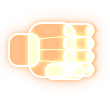
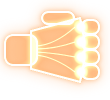
무투가 궁극기: 세 번 모두 주먹, 손등 쪽 주먹 그림, 플레이어 쪽에서 앞으로 날아감
- 주먹 그림을 손등 쪽에서 본 모양으로 (손목·손등·힘줄·주먹 마디 4개·접힌 손가락·엄지), 평타·스킬 1도 같은 그림
- 궁극기 세 번 모두 같은 주먹·같은 폭(220): 피해 20/20/30, 마지막만 강한 밀치기는 그대로
- 타격 시 범위 폭만 한 주먹이 플레이어 쪽에서 범위 끝까지 날아감(잔상 3개), 조준 중엔 출발 자리에 옅은 주먹
- 안 쓰는 발차기 그림 삭제

Claude-Session: https://claude.ai/code/session_014LK3LCMRfeXrTGqs4qkV62

diff --git a/web/js/characters/fighter.js b/web/js/characters/fighter.js
@@ -10,13 +10,11 @@ const fighterRgba = (a) => `rgba(${FIGHTER_RGB[0]},${FIGHTER_RGB[1]},${FIGHTER_R
 // 기(氣) 주먹 그림 (tools/fighter_fist_gen.js로 생성, 110x100, 주먹 마디가 오른쪽, 가운데 x 60 y 50, 색이 들어 있음)
 const FIGHTER_FIST_IMAGE = loadImage('assets/fighter_fist.png');
 
-// 발차기 그림 (110x100, 다리가 왼쪽·발바닥이 오른쪽)
-const FIGHTER_KICK_IMAGE = loadImage('assets/fighter_kick.png');
 // 그림 속 내용이 있는 영역 (빛 번짐 여백 조금 포함) — 범위를 꽉 채울 때 이 영역을 늘려 그린다
-const FIGHTER_FIST_BOX = [5, 19, 94, 64], FIGHTER_KICK_BOX = [2, 6, 102, 88];
+const FIGHTER_FIST_BOX = [3, 10, 98, 74];
 
 // 그림을 시작점(x, y)에서 angle 방향으로 길이 length·폭 width인 사각형에 꽉 채워 그린다
-// reach(0~1): 앞으로 뻗은 정도 (앞쪽 끝은 고정, 뒤쪽이 따라온다), flip: 위아래 뒤집기(왼손)
+// reach(0~1): 앞으로 뻗은 정도 (앞쪽 끝은 고정, 뒤쪽이 따라온다), flip: 위아래 뒤집기
 function drawFighterFill(ctx, img, box, x, y, angle, length, width, alpha, { flip = false, reach = 1 } = {}) {
     if (!isImageReady(img) || alpha <= 0) return;
     const len = length * reach;
@@ -39,7 +37,7 @@ function drawFighterFist(ctx, x, y, angle, size, alpha) {
     ctx.rotate(angle);
     ctx.globalCompositeOperation = 'lighter';
     ctx.globalAlpha = Math.min(1, alpha);
-    ctx.drawImage(FIGHTER_FIST_IMAGE, -60 * k, -50 * k, 110 * k, 100 * k);
+    ctx.drawImage(FIGHTER_FIST_IMAGE, -52 * k, -47 * k, 110 * k, 100 * k); // 주먹 내용 가운데가 (x, y)
     ctx.restore();
 }
 
@@ -545,7 +543,7 @@ const FIGHTER_ULT = {
     aim: 1000, lock: 550,           // ms (한 번에 1.55초)
     turnSpeed: 90,                  // 조준 중 회전 속도(도/초)
     length: 500,                    // 앞으로 뻗는 길이
-    punchWidth: 220, kickWidth: 400, // 좌우 폭 (펀치는 좁게)
+    punchWidth: 220, kickWidth: 220, // 좌우 폭 (세 번 모두 같은 주먹)
     punchDamage: 20 / 15, kickDamage: 2.0, // baseAtk 배수 (15 기준 20 / 30)
     knockTime: 0.3, knockPower: 1000, // 발차기 밀치기 (초, px/초) → 약 300px
     wallDamage: 10,
@@ -719,22 +717,20 @@ class FighterUltManager {
             ctx.strokeStyle = fighterRgba(0.7); ctx.lineWidth = 2;
             ctx.beginPath(); ctx.arc(this.posX, this.posY, 52, ang - 0.6, ang + 0.6); ctx.stroke();
         }
-        // 다음 타격 표시: 범위를 꽉 채운 옅은 주먹(왼손은 뒤집힘) / 발
-        const img = this.strikesDone < 2 ? FIGHTER_FIST_IMAGE : FIGHTER_KICK_IMAGE;
-        const box = this.strikesDone < 2 ? FIGHTER_FIST_BOX : FIGHTER_KICK_BOX;
-        drawFighterFill(ctx, img, box, this.posX, this.posY, ang, FIGHTER_ULT.length, this.strikeWidth(this.strikesDone),
-            0.12 + 0.3 * fill, { flip: this.strikesDone === 0 });
+        // 다음 타격 표시: 플레이어 쪽(출발 자리)에 범위 폭만 한 옅은 주먹
+        const fw = this.strikeWidth(this.strikesDone), fl = fw * FIGHTER_FIST_BOX[2] / FIGHTER_FIST_BOX[3];
+        drawFighterFill(ctx, FIGHTER_FIST_IMAGE, FIGHTER_FIST_BOX, this.posX, this.posY, ang, fl, fw, 0.15 + 0.35 * fill);
         ctx.restore();
     }
 }
 
-// 궁극기 타격 이펙트: 펀치는 거대한 기 주먹이 범위를 따라 앞으로 쭉 뻗고(왼손은 뒤집힘),
-// 발차기는 넓은 초승달 바람이 앞으로 휩쓸고 나간다. 둘 다 시작점 충격파 + 범위 따라 바람줄
+// 궁극기 타격 이펙트: 범위 폭만 한 거대한 기 주먹이 플레이어 쪽에서 범위 끝까지 날아간다 (세 번 모두 같음)
+// + 시작점 충격파 + 범위 따라 바람줄·불꽃
 class FighterUltStrikeVFX extends SparkVFX {
     constructor(x, y, angle, length, width, index) {
         super(FIGHTER_COLOR);
         this.x = x; this.y = y; this.angle = angle; this.length = length; this.width = width; this.index = index;
-        this.duration = 0.4;
+        this.duration = 0.5;
         const dx = Math.cos(angle), dy = Math.sin(angle);
         for (let i = 0; i < 18; i++) {
             const d = vfxRand(40, length), side = vfxRand(-0.5, 0.5) * width;
@@ -760,12 +756,17 @@ class FighterUltStrikeVFX extends SparkVFX {
                 ctx.beginPath(); ctx.moveTo(this.x + dx * d0 - dy * side, this.y + dy * d0 + dx * side);
                 ctx.lineTo(this.x + dx * d1 - dy * side, this.y + dy * d1 + dx * side); ctx.stroke();
             }
-            // 범위를 꽉 채운 거대한 주먹(왼손은 뒤집힘) / 발: 뒤에서 앞으로 순식간에 뻗고, 잠깐 밝게 남았다 사라진다
-            const img = this.index < 2 ? FIGHTER_FIST_IMAGE : FIGHTER_KICK_IMAGE;
-            const box = this.index < 2 ? FIGHTER_FIST_BOX : FIGHTER_KICK_BOX;
-            const bright = t < 0.25 ? 1.4 : a * 1.4;
-            drawFighterFill(ctx, img, box, this.x, this.y, this.angle, this.length, this.width, bright, { flip: this.index === 0, reach: 0.35 + 0.65 * go });
-            if (t < 0.2) drawFighterFill(ctx, img, box, this.x, this.y, this.angle, this.length, this.width, 0.8, { flip: this.index === 0, reach: 0.35 + 0.65 * go });
+            // 범위 폭만 한 거대한 주먹이 플레이어 쪽에서 범위 끝까지 날아가고(잔상 3개), 끝에서 잠깐 남았다 사라진다
+            const fw = this.width, fl = fw * FIGHTER_FIST_BOX[2] / FIGHTER_FIST_BOX[3];
+            const travel = Math.max(0, this.length - fl);
+            const move = Math.min(1, t / 0.4); // 전체 0.4 중 앞 40% 동안 이동
+            const ease = 1 - (1 - move) * (1 - move);
+            for (let g = 3; g >= 0; g--) {
+                const e = Math.max(0, ease - g * 0.12);
+                const al = g === 0 ? (t < 0.6 ? 1.2 : a * 2) : 0.35 * (1 - g / 4) * (move < 1 ? 1 : a);
+                const off = travel * e;
+                drawFighterFill(ctx, FIGHTER_FIST_IMAGE, FIGHTER_FIST_BOX, this.x + dx * off, this.y + dy * off, this.angle, fl, fw, al);
+            }
             // 시작점 충격파
             ctx.strokeStyle = fighterRgba(0.8 * a); ctx.lineWidth = 4 * a + 1;
             ctx.beginPath(); ctx.arc(this.x, this.y, 20 + 60 * t, 0, Math.PI * 2); ctx.stroke();
@@ -847,7 +848,7 @@ function applyFighter(player) {
 const FIGHTER_CHARACTER_DATA = {
     id: 'FIGHTER',
     name: '무투가',
-    desc: '평타: 기 주먹으로 앞 바닥을 내려찍습니다(15), 스킬 1: 기 주먹을 날립니다(8), 10개까지 모을 수 있습니다, 스킬 2: 돌진하며 부딪히면 피해(8)를 주고 돌려차기로 주변 상대를 바깥으로 밉니다(23), 1초간 기절, 궁극기: 왼손·오른손 펀치(20씩) 후 발차기(30)로 강하게 밀칩니다, 타격마다 범위를 좌우 키로 돌린 뒤 고정되면 들어가고, 밀려 벽에 부딪히면 추가 피해(10)',
+    desc: '평타: 기 주먹으로 앞 바닥을 내려찍습니다(15), 스킬 1: 기 주먹을 날립니다(8), 10개까지 모을 수 있습니다, 스킬 2: 돌진하며 부딪히면 피해(8)를 주고 돌려차기로 주변 상대를 바깥으로 밉니다(23), 1초간 기절, 궁극기: 거대한 기 주먹을 세 번 날립니다(20, 20, 30), 마지막 주먹은 강하게 밀칩니다, 타격마다 범위를 좌우 키로 돌린 뒤 고정되면 들어가고, 밀려 벽에 부딪히면 추가 피해(10)',
     apply: applyFighter,
     thumbnail: FIGHTER_IMAGE,
 };

diff --git a/tools/fighter_fist_gen.js b/tools/fighter_fist_gen.js
@@ -1,7 +1,7 @@
 // 무투가 기(氣) 주먹·발 그림 생성: 반투명 연주황, 앞(주먹 마디 / 발바닥)이 오른쪽
 // 결과 (게임용 1/2 크기, 'lighter'로 그림) → web/assets/에 복사
-//   fighter_fist.png 110x100, 주먹 가운데 x 60 y 50, 내용 영역 x 9~95 y 23~79
-//   fighter_kick.png 110x100, 내용 영역 x 6~100 y 10~90 (다리가 왼쪽, 발바닥이 오른쪽)
+//   fighter_fist.png 110x100 (손등 쪽에서 본 주먹), 내용 영역 x 3~101 y 10~84
+//   fighter_kick.png 110x100, 내용 영역 x 6~100 y 10~90 (다리가 왼쪽, 발바닥이 오른쪽) — 지금 게임에선 안 씀
 //       preview_fist.png (확인용)
 // 실행: node tools/fighter_fist_gen.js <저장할 폴더>  (Playwright 필요)
 const { chromium } = require(require('child_process').execSync('npm root -g').toString().trim() + '/playwright');
@@ -17,25 +17,27 @@ const OUT = process.argv[2] || __dirname;
     const white = mk(W, H), c = white.getContext('2d');
     const rr = (x, y, w, h, r) => { c.beginPath(); c.roundRect(x, y, w, h, r); };
 
-    // 주먹 모양 (흰색 선 + 반투명 면). 면은 옅게, 윤곽은 밝게 → 기로 만든 주먹
+    // 주먹을 손등 쪽에서 본 모양 (손목이 왼쪽, 주먹 마디가 오른쪽)
+    // 손목 → 넓은 손등 → 앞쪽에 세로로 늘어선 주먹 마디 4개 → 그 앞에 접힌 손가락 마디, 위쪽에 엄지
     const shapes = [];
-    shapes.push(() => rr(18, 68, 60, 64, 18));      // 손목
-    shapes.push(() => rr(58, 46, 92, 108, 26));     // 손등
-    for (let i = 0; i < 4; i++) shapes.push(() => rr(128, 48 + i * 26, 58, 26, 12)); // 접은 손가락 4개
-    shapes.push(() => rr(92, 128, 76, 30, 14));     // 엄지
+    shapes.push(() => rr(10, 70, 64, 60, 16));                   // 손목
+    shapes.push(() => { c.beginPath(); c.moveTo(62, 62); c.lineTo(160, 36); c.quadraticCurveTo(178, 100, 160, 164); c.lineTo(62, 138); c.closePath(); }); // 손등 (앞으로 넓어짐)
+    for (let i = 0; i < 4; i++) shapes.push(() => rr(164, 40 + i * 30, 34, 28, 12)); // 접힌 손가락 마디 4개
+    shapes.push(() => rr(84, 24, 64, 24, 12));                    // 엄지 (위쪽)
     c.fillStyle = 'rgba(255,255,255,0.28)';
-    for (const s of shapes) { s(); c.fill(); }
+    for (const sh of shapes) { sh(); c.fill(); }
     c.strokeStyle = 'rgba(255,255,255,0.95)'; c.lineWidth = 4;
-    for (const s of shapes) { s(); c.stroke(); }
-    // 주먹 마디 반짝임
+    for (const sh of shapes) { sh(); c.stroke(); }
+    // 주먹 마디 (뼈 튀어나온 곳) 반짝임
     for (let i = 0; i < 4; i++) {
-      const g = c.createRadialGradient(182, 61 + i * 26, 0, 182, 61 + i * 26, 14);
-      g.addColorStop(0, 'rgba(255,255,255,0.9)'); g.addColorStop(1, 'rgba(255,255,255,0)');
-      c.fillStyle = g; c.beginPath(); c.arc(182, 61 + i * 26, 14, 0, Math.PI * 2); c.fill();
+      const y = 54 + i * 30;
+      const g = c.createRadialGradient(162, y, 0, 162, y, 15);
+      g.addColorStop(0, 'rgba(255,255,255,0.95)'); g.addColorStop(1, 'rgba(255,255,255,0)');
+      c.fillStyle = g; c.beginPath(); c.arc(162, y, 15, 0, Math.PI * 2); c.fill();
     }
-    // 손등 힘줄 선
+    // 손등 힘줄: 손목에서 각 마디로 퍼지는 선
     c.strokeStyle = 'rgba(255,255,255,0.45)'; c.lineWidth = 2;
-    for (let i = 0; i < 3; i++) { c.beginPath(); c.moveTo(78, 78 + i * 22); c.quadraticCurveTo(105, 74 + i * 24, 128, 74 + i * 26); c.stroke(); }
+    for (let i = 0; i < 4; i++) { c.beginPath(); c.moveTo(72, 92 + i * 6); c.quadraticCurveTo(110, 90 + i * 8, 150, 54 + i * 30); c.stroke(); }
 
     // 발차기: 다리(정강이) + 발등 + 발바닥(앞) + 발가락 (위에서 본 앞차기)
     const kickW = mk(W, H), k = kickW.getContext('2d');
